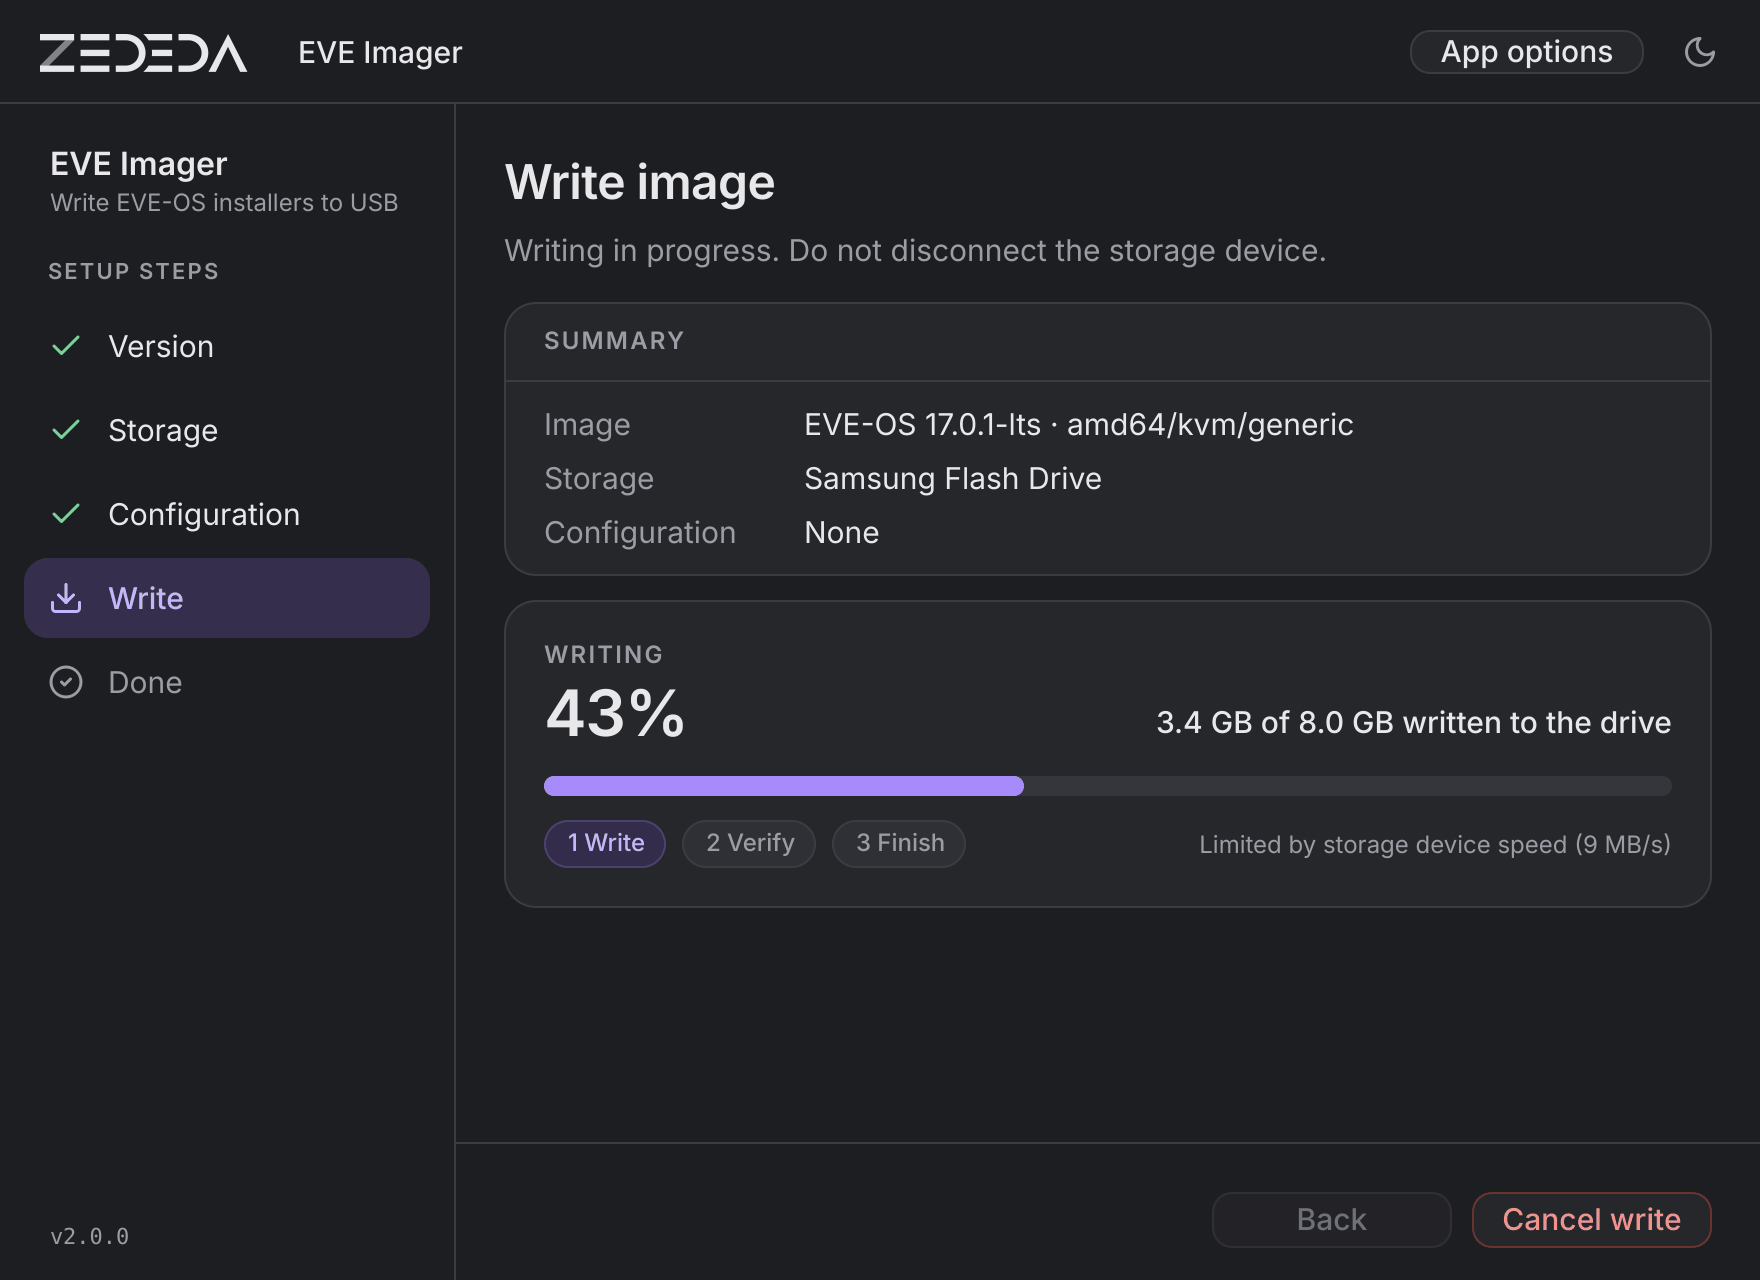
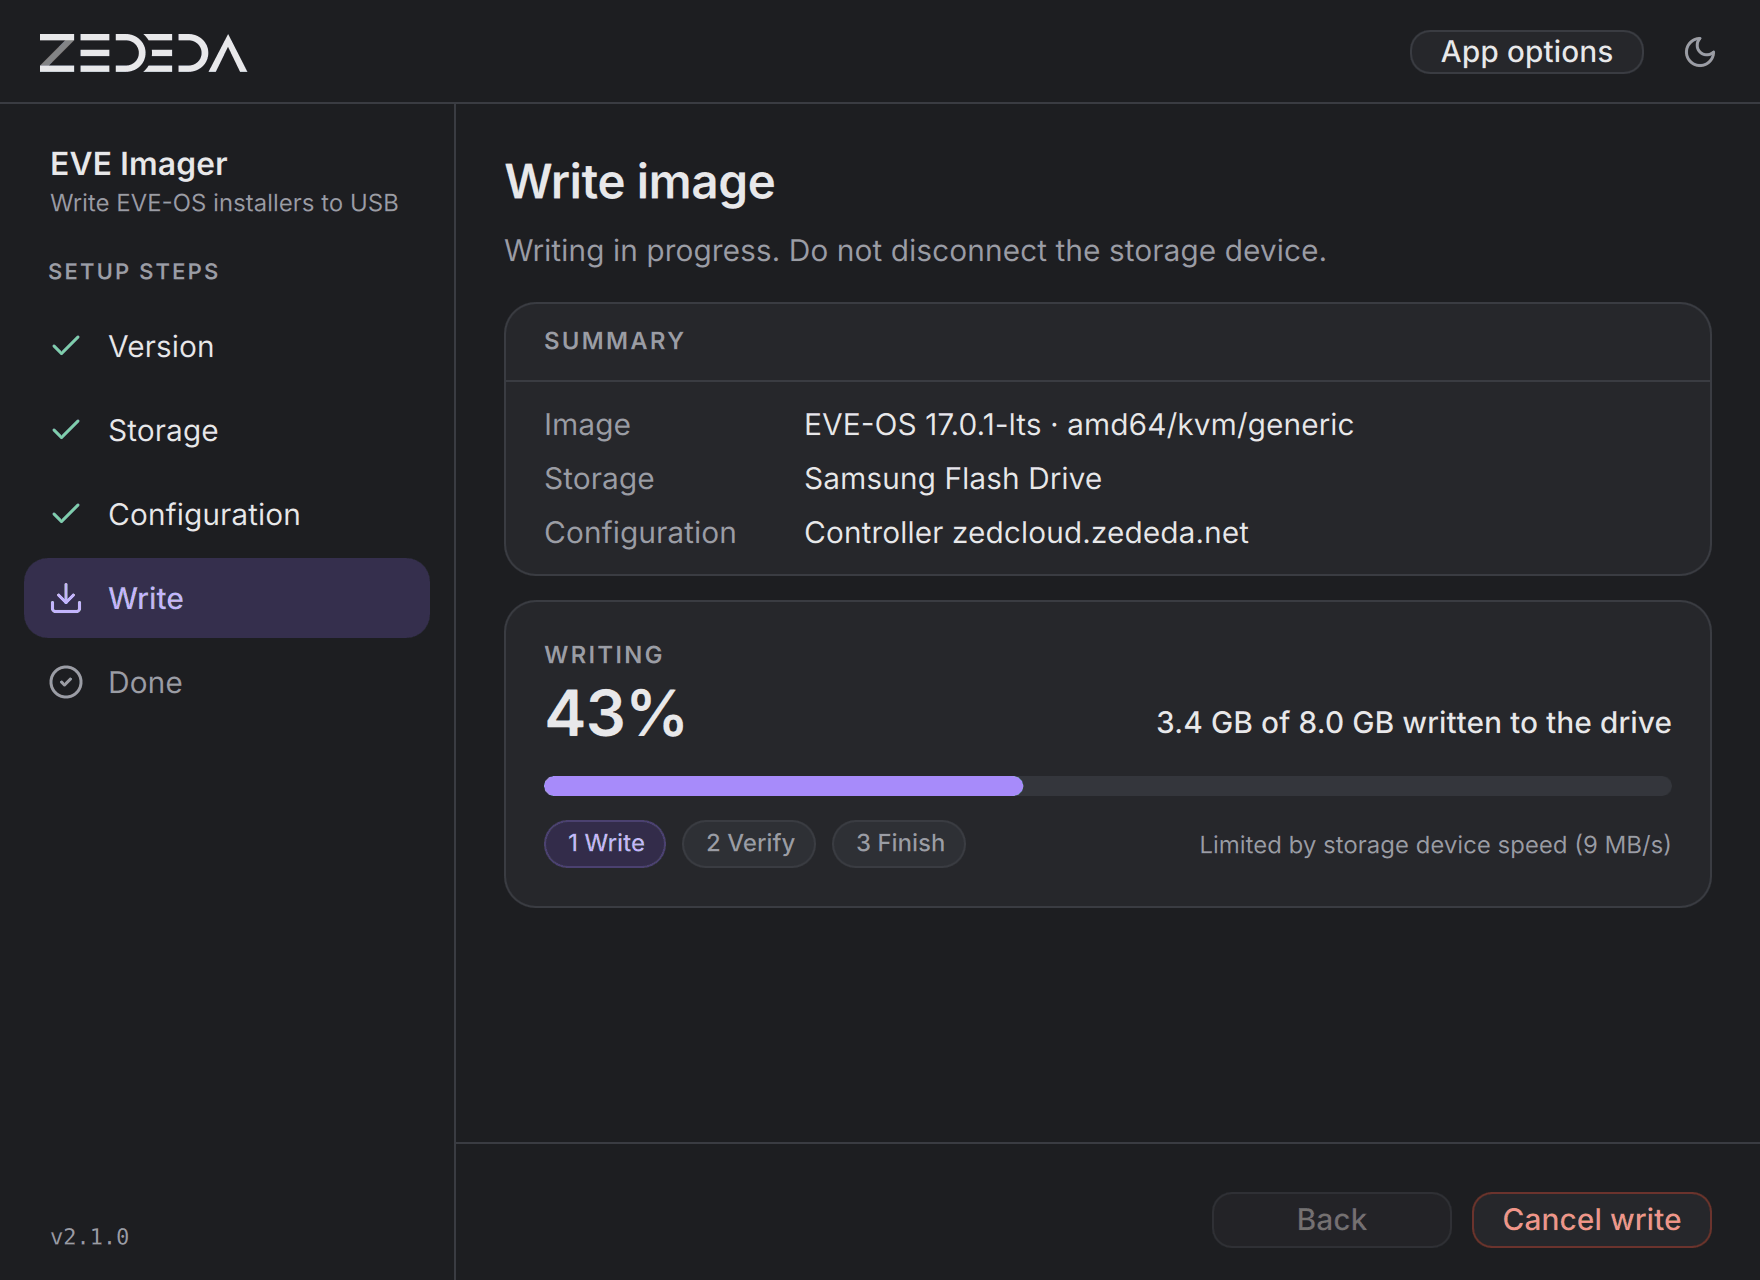
Remove the product name from the top bar
"EVE Imager" stood next to the ZEDEDA wordmark, under the window title
that says it and above the sidebar that says it again. The top bar now
has the wordmark and the app-level actions only.

README screenshots regenerated with the new top bar.

Claude-Session: https://claude.ai/code/session_01RpjJ8m8GuMWcRh2u9w2tCm

diff --git a/src/wizard/WizardContainer.qml b/src/wizard/WizardContainer.qml
@@ -431,7 +431,7 @@ Item {
         anchors.fill: parent
         spacing: 0
 
-        // ── Top bar: ZEDEDA wordmark, product name, app-level actions ─────
+        // ── Top bar: ZEDEDA wordmark and app-level actions ─────
         Item {
             id: topBar
             Layout.fillWidth: true
@@ -459,16 +459,8 @@ Item {
                     Accessible.name: "ZEDEDA"
                 }
 
-                Text {
-                    text: qsTr("EVE Imager")
-                    font.family: Style.fontFamily
-                    font.pointSize: Style.fontSizeFormLabel
-                    font.weight: Style.fontWeightMedium
-                    color: Style.text
-                    Layout.leftMargin: Style.spacingMedium
-                    Layout.alignment: Qt.AlignVCenter
-                }
-
+                // The product name is in the window title and at the top of
+                // the sidebar; it is not repeated here
                 Item { Layout.fillWidth: true }
 
                 ImButton {
